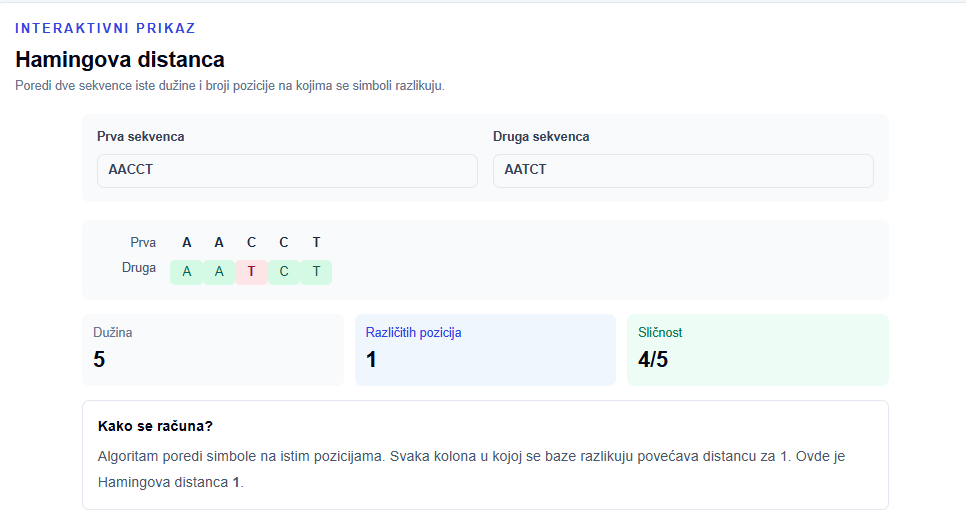
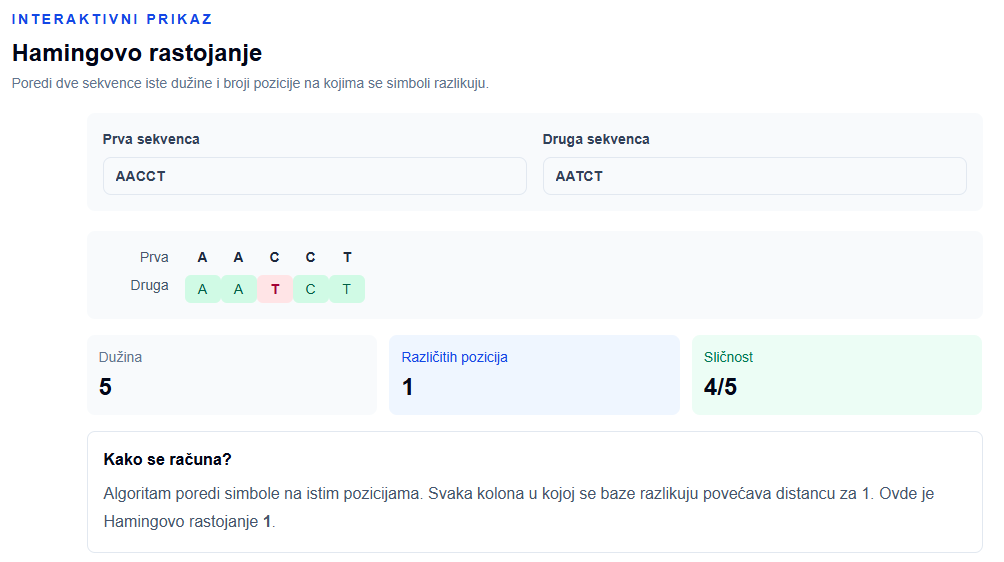
final fix

diff --git a/tex/master.tex b/tex/master.tex
@@ -2094,7 +2094,7 @@ Kao što je prikazano na Slici \ref{fig:hamming}, za Hamingovo rastojanje korisn
 
 \begin{figure}[H]
 \centering
-\includegraphics[width=0.75\textwidth]{images/hamming_visual.png}
+\includegraphics[width=0.75\textwidth]{images/hamming_visual.PNG}
 \caption{Interaktivni prikaz računanja Hamingovog rastojanja za dve sekvence}
 \label{fig:hamming}
 \end{figure} 
